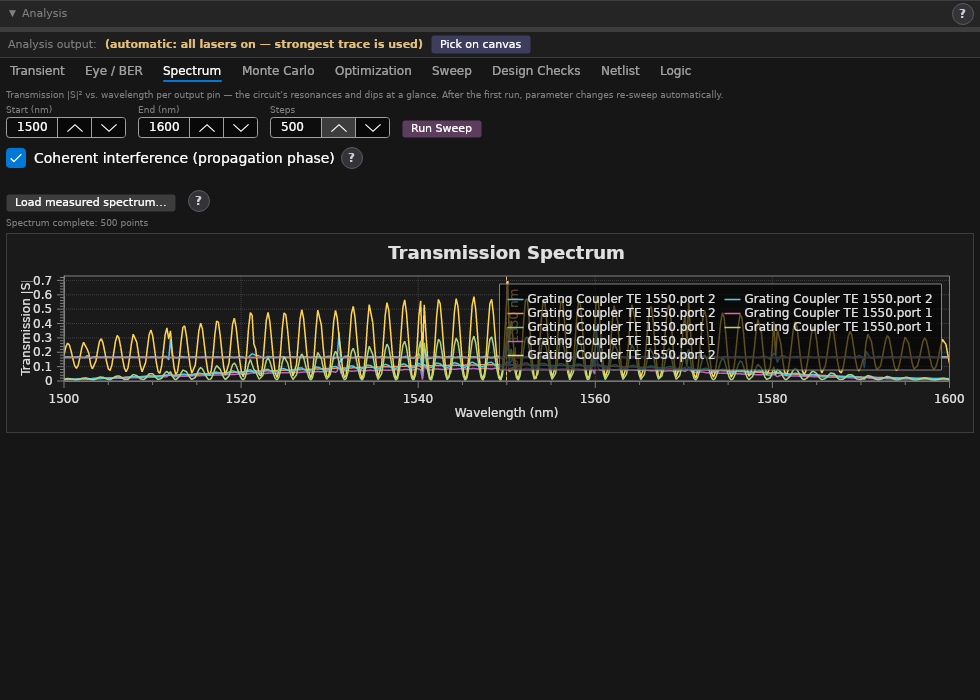
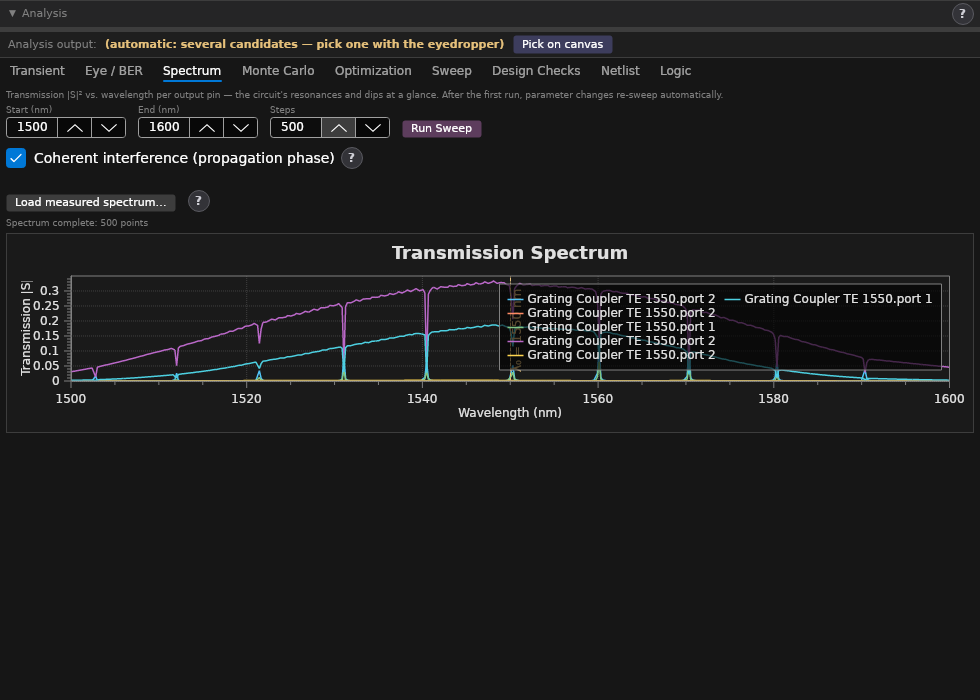
fix(example): terminate add-drop ring's unused add port and label only gc_in — openEBL verification reports 0 errors (#1359)
The SiEPIC functional verification failed on two findings: ring_bottom's
unused add port (port 3) dangled, and all three grating couplers carried
opt_in labels, so gc_through's label saw 2 GCs above it (DFT allows 1).
The add port now ends in an ebeam_terminator_te1550 (placed clear of the
through route's vertical run), and only gc_in injects light — one opt_in
label in the middle of the 127 um array. Example re-authored; E2E counts
updated; PR media spectrum regenerated.

Changed region(s): [[0.0306, 0.33, 0.9796, 0.6], [0.1837, 0.03, 0.6429, 0.09]]

diff --git a/UnitTests/Integration/EBeamAddDropRingJourneyDesign.cs b/UnitTests/Integration/EBeamAddDropRingJourneyDesign.cs
@@ -12,7 +12,9 @@ namespace UnitTests.Integration;
 /// EBeam PDK: three grating couplers in a vertical 127 µm openEBL test array
 /// (gc_in / gc_through / gc_drop, all 0°) and two <c>DC Halfring-Straight</c>
 /// couplers (gap 100 nm, R = 3 µm) facing each other so the ring closes through
-/// two straight vertical waveguide segments.
+/// two straight vertical waveguide segments. Only gc_in injects light (one opt_in
+/// label, middle of the array) and the unused add port ends in a terminator, so
+/// the export passes openEBL functional verification.
 /// <para>
 /// Pin math (halfring, 21.52 × 11.46 µm, canvas Y pointing DOWN): unrotated, the
 /// ring ports 2/4 sit at the top edge (y ≈ 0, angle 270° = north) and the bus
@@ -40,6 +42,7 @@ public sealed class EBeamAddDropRingJourneyDesign
 
     private const string GratingTemplateName = "Grating Coupler TE 1550";
     private const string HalfringTemplateName = "DC Halfring-Straight";
+    private const string TerminatorTemplateName = "Disconnected Waveguide TE 1550";
     private const string EBeamPdkName = "SiEPIC EBeam PDK";
 
     // Halfring local pin geometry (from siepic-ebeam-pdk.json).
@@ -49,6 +52,13 @@ public sealed class EBeamAddDropRingJourneyDesign
 
     // GC local pin geometry: port 2 (waveguide) sits at (39.969, 13.669), pointing right.
     private const double GcPort2OffsetY = 13.669;
+
+    // Terminator (ebeam_terminator_te1550, 10.905 x 1.5): port 1 sits at (10.9, 0.75),
+    // pointing right; rotated 180 deg it faces the ring's add port across this gap.
+    // The gap keeps the terminator tail clear of the through route's vertical run
+    // at x = 150 (DevRec layers must not overlap).
+    private const double TerminatorPinOffsetY = 0.75;
+    private const double TerminatorGapMicrometers = 4.0;
 
     private EBeamAddDropRingJourneyDesign(DesignCanvasViewModel canvas, List<ComponentTemplate> templates)
     {
@@ -73,6 +83,7 @@ public sealed class EBeamAddDropRingJourneyDesign
         var templates = TestPdkLoader.LoadAllTemplates();
         var gratingTemplate = TemplateFor(templates, GratingTemplateName);
         var halfringTemplate = TemplateFor(templates, HalfringTemplateName);
+        var terminatorTemplate = TemplateFor(templates, TerminatorTemplateName);
 
         var canvas = new DesignCanvasViewModel();
         canvas.ChipMinX = 0;
@@ -85,6 +96,12 @@ public sealed class EBeamAddDropRingJourneyDesign
         var gcDrop = Place(canvas, "gc_drop", gratingTemplate, 20, 40);
         var gcIn = Place(canvas, "gc_in", gratingTemplate, 20, 40 + OpenEblPitchMicrometers);
         var gcThrough = Place(canvas, "gc_through", gratingTemplate, 20, 40 + 2 * OpenEblPitchMicrometers);
+
+        // Only gc_in injects light: one opt_in label in the middle of the test array
+        // (1 GC above, 1 below) keeps openEBL's fibre-array rule satisfied; the drop
+        // and through couplers are listen-only detectors.
+        gcDrop.LaserEnabled = false;
+        gcThrough.LaserEnabled = false;
 
         // Top halfring (rotated 180°): its bus row lands at y+0.75, level with
         // gc_in's waveguide port, so the input link is a straight horizontal route.
@@ -108,6 +125,15 @@ public sealed class EBeamAddDropRingJourneyDesign
         Route(canvas, Pin(gcIn, "port 2"), Pin(ringTop, "port 3"));
         Route(canvas, Pin(ringTop, "port 1"), Pin(gcThrough, "port 2"));
         Route(canvas, Pin(ringBottom, "port 1"), Pin(gcDrop, "port 2"));
+
+        // The unused add port (bottom bus right) must not dangle — openEBL's
+        // verification flags disconnected pins — so it ends in a terminator.
+        var (addX, addY) = Pin(ringBottom, "port 3").GetAbsolutePosition();
+        var terminator = Place(canvas, "add_term", terminatorTemplate,
+            addX + TerminatorGapMicrometers, addY - TerminatorPinOffsetY);
+        ComponentPoseTransform.Rotate90CounterClockwise(terminator);
+        ComponentPoseTransform.Rotate90CounterClockwise(terminator);
+        Route(canvas, Pin(ringBottom, "port 3"), Pin(terminator, "port 1"));
 
         canvas.ConnectionManager.EnableCoherentPropagationPhase = true;
         return new EBeamAddDropRingJourneyDesign(canvas, templates);

diff --git a/UnitTests/Integration/EBeamAddDropRingExampleTests.cs b/UnitTests/Integration/EBeamAddDropRingExampleTests.cs
@@ -42,8 +42,8 @@ public class EBeamAddDropRingExampleTests
             EBeamAddDropRingExampleAuthoringTests.ExampleFileName);
         await fileOps.PostLoadRouting;
 
-        canvas.Components.Count.ShouldBe(5);
-        canvas.Connections.Count.ShouldBe(5);
+        canvas.Components.Count.ShouldBe(6);
+        canvas.Connections.Count.ShouldBe(6);
         foreach (var compVm in canvas.Components)
         {
             compVm.TemplatePdkSource.ShouldBe(EBeamPdkName,
